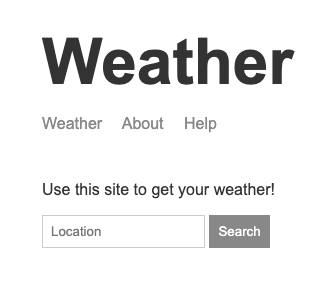
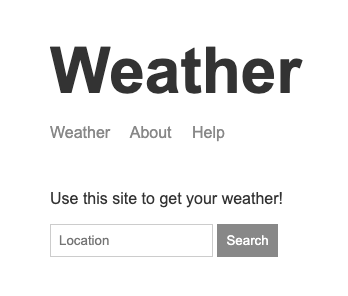
Added hover properties to links

diff --git a/css/style.css b/css/style.css
@@ -55,6 +55,10 @@ ul {
     margin-top: 8px;
 }
 
+a:hover {
+    color: rgb(61, 24, 24);
+}
+
 
 /* TOP CONTAINER */
 .top-container {
@@ -222,6 +226,10 @@ ul {
     height: 200px;
     margin: 10px 1.2%;
     width: 35%;
+}
+
+.project-image:hover {
+    opacity: .8;
 }
 
 .project:nth-child(odd) {
